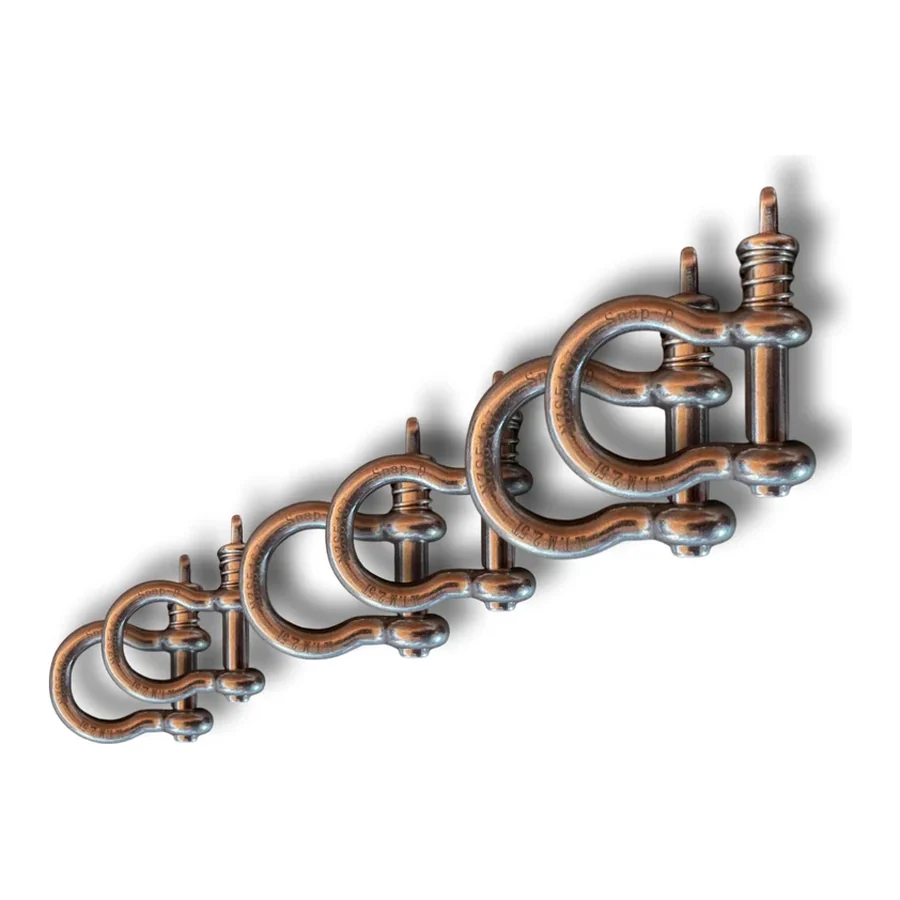
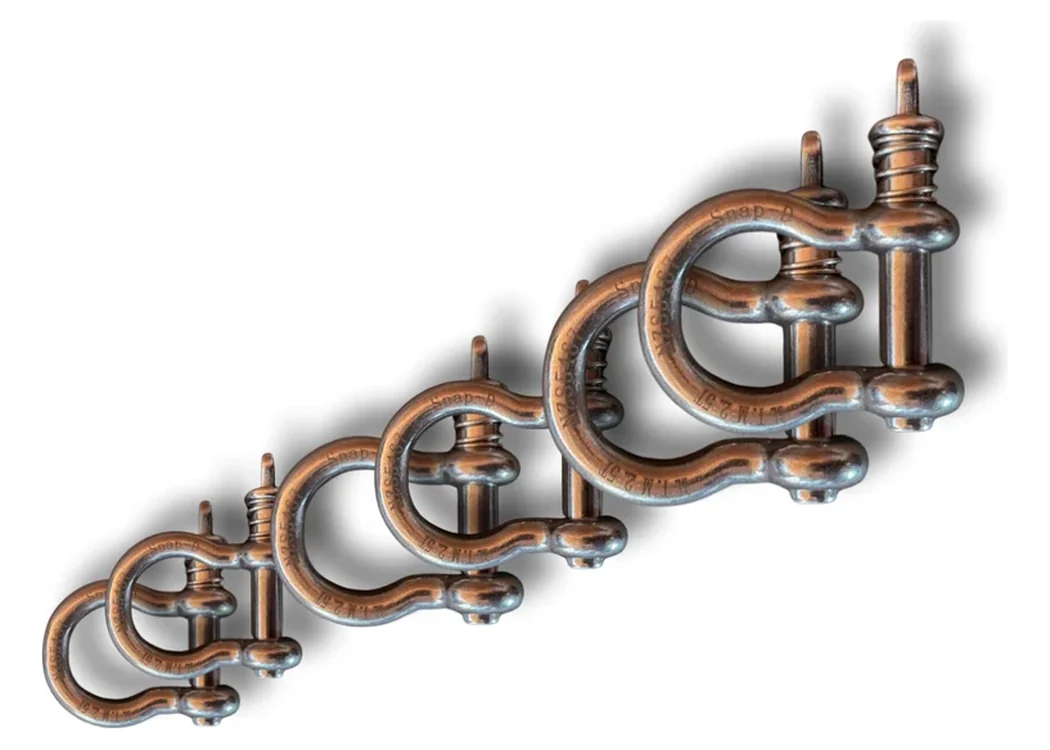
Tighten Snap-D product images
Re-crop the three product shots to 7:5 with a 3% margin instead of
square-padding them, and match the container aspect so the frame is
the same shape as the image at every viewport width. Previously the
square images sat in a 1.43 landscape cell, so object-contain fitted
them by height and left white bars each side.

Claude-Session: https://claude.ai/code/session_01PQA2PWA3UCcAhFsBExy8BY

Changed region(s): [[0.0311, 0.0307, 0.9644, 0.9813]]

diff --git a/app/snap-d-shackles/page.js b/app/snap-d-shackles/page.js
@@ -117,7 +117,7 @@ export default function SnapDShackles() {
                 src={ph.src}
                 alt={ph.alt}
                 loading="lazy"
-                className="h-56 w-full rounded-xl border border-zinc-200 bg-white object-contain p-3 shadow-sm"
+                className="aspect-[7/5] w-full rounded-xl border border-zinc-200 bg-white object-contain p-2 shadow-sm"
               />
             ))}
           </div>
